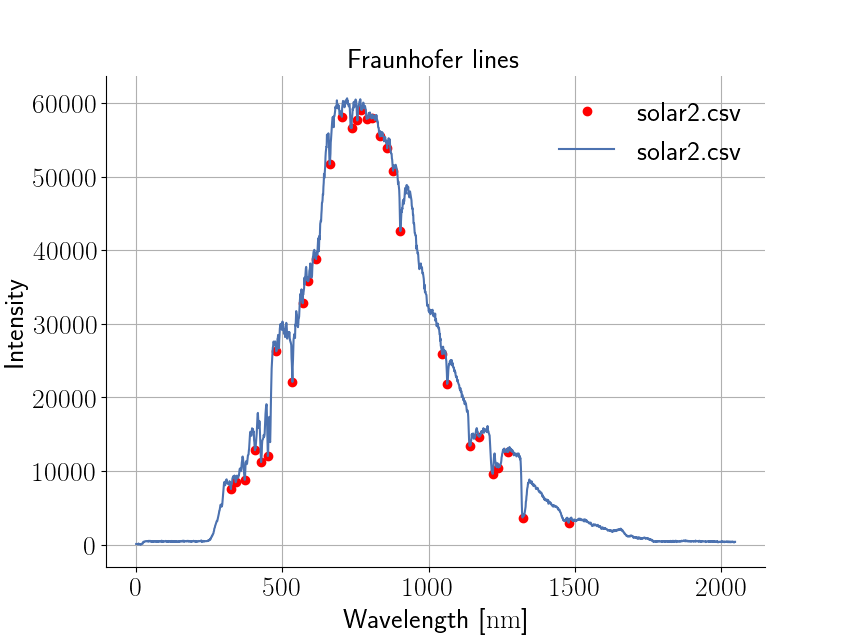
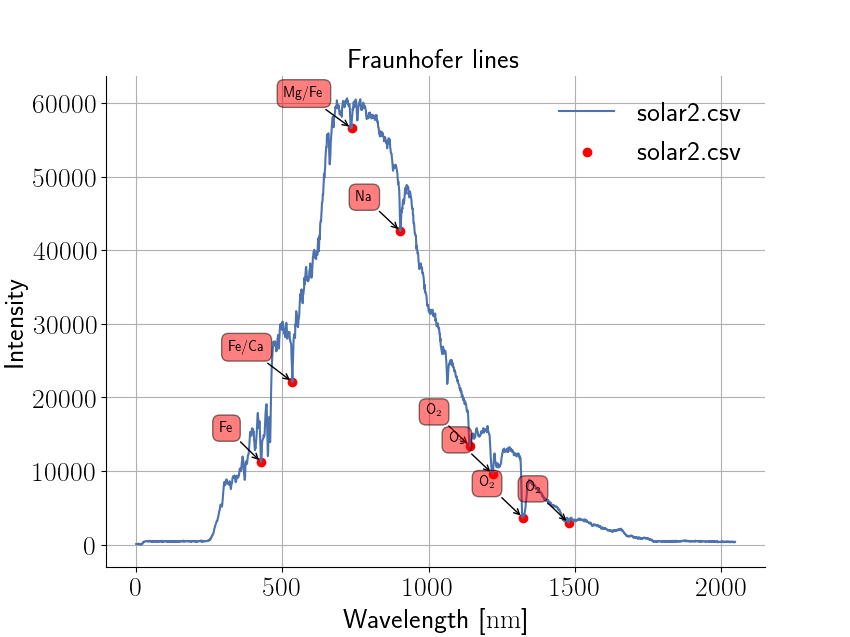
everythin

diff --git a/ex4/theory.tex b/ex4/theory.tex
@@ -1,7 +1,22 @@
 \section{Theory}
 \subsection{Light emission and absorbtion}
 
-The electron of an specific atom has a discrete spectrum of energy-levels determined by the potential of the nucleus and the other electrons. When light interacts with an atom, we are essentially adding energy to the atom, due to the energy associated with light of a certain frequency $f$ $E=hf$. Due to the quantum nature of light and electrons, only light of a frequency corresponding to the difference in energy between to of the discrete energy levels of the atom can move the from the lower energy level to the upper. This process is called absorbtion, and if we send light at an material, the material will absorb light of the wavelengths corresponding to energy transitions of the chemical element composure of the material. Likewise, when the electron transitions back to a lower energy state, the atom will emit a photon with a frequency corresponding to the transition energy, which is called emission. Like with absorbtion, each material will emit light at frequencies corresponding to it's chemical element composition. On can measure the spectrum of an material either absorbing or emitting light, and determine the energy transistions by looking at the spectral lines of the spectrum. For the absorbtion spectrum this will be minima on a wavelength vs. intensity graph. \\
+The electron of a specific atom has a discrete spectrum of energy-levels
+determined by the potential of the nucleus and the other electrons. When light
+interacts with an atom, we are essentially adding energy to the atom, due to
+the energy associated with light of a certain frequency $f$,
+\begin{equation}
+E=hf.
+\end{equation} 
+Due to the quantum nature of light and electrons, only light of a frequency
+corresponding to the difference in energy between two of the discrete energy
+levels of the atom can move the electron from the lower energy level to the upper. This process is called absorbtion, and if we send light at a material, the material will absorb light of the wavelengths corresponding to energy transitions of the chemical element composure of the material.
+
+Likewise, when the electron transitions to a lower energy state, the atom will
+emit a photon with a frequency corresponding to the transition energy, which is
+called emission. Similar to absorbtion, each material will emit light at
+frequencies corresponding to it's chemical element composition. One can measure
+the spectrum of a material either by absorbing or emitting light, and determine the energy transistions by looking at the spectral lines of the spectrum. For the absorbtion spectrum this will be minima on a wavelength vs. intensity graph. 
 
 The lines that exist due to the differences in the allowed quantum states will have a even finer splitting due to fine and hyperfine structure, which arises due to the dipole moment of the electron and the nucleus respectively. 
 
@@ -10,40 +25,24 @@ The lines that exist due to the differences in the allowed quantum states will h
 All matter emits electromagnetic radiation, when it has a temperature above absolute zero. This radiative distribution of entropy is called thermal radiation and is a spontaneous process.
 
 Similarly, all matter absorbs electromagnetic radiation to some degree. In addition, a blackbody is an object that absorbs all radiation of all wavelengths that falls upon it. Furthermore, at thermal equillibrium a blackbody emits a characteristic frequency distribution, which is temperature depended. The relationship between the spectral radiance density $B_f$ for a certain frequency $f$ and the temperature of a black body is given by plancks law:
-
+%
 \begin{align}
 B_{f}(T)= \frac{2hf^3}{c^2}\frac{1}{\exp(\frac{hf}{kT})-1}
 \label{planck}
 \end{align}
 
-Where $c$ is the speed of light, $h$ is Planck's constant, $k$ is Boltzmann's constant and $T$ is the temperature. For each frequency or wavelength $\lambda$ (related by $\lambda f = c$), there is a certain temperature where the spectral radiance density will reach its maxima or wise versa, eg. for each temperature there is a characteristic wavelength were the spectral radiance density has a maxima. The relationship between this temperature and wavelength is inversely proportional, and is given by Wien's displacement law:
-
+Where $c$ is the speed of light, $h$ is Planck's constant, $k$ is Boltzmann's
+constant and $T$ is the temperature. For each frequency or wavelength $\lambda$
+(related by $\lambda f = c$), there is a certain temperature where the spectral
+radiance density will reach its maxima or vise versa, eg. for each temperature
+there is a characteristic wavelength where the spectral radiance density has a maxima. The relationship between this temperature and wavelength is inversely proportional, and is given by Wien's displacement law:
+%
 \begin{align}
-\lambda_{max}T=b
-\label{wien}
+\lambda_{max}T=\SI{2.897 e-3}{\kelvin \meter}
+\label{eq:wien}
 \end{align}
 
-Where $b$ is Wien's displacement constant, which has a value of $\SI{2.897 e-3}{\kelvin \meter}$. 
-
-
-\subsection{Light bulbs and the solar spectrum}
-
-
-
-\begin{figure}[h!]
-    \centering
-    \includegraphics[width=0.5\textwidth]{solarspectrum}
-    \caption{The solar spectrum}
-    \label{fig:solarspectrum}
-\end{figure}
-
-Wiens displacement law
-
-\begin{equation}
-    \lambda_{\text{peak}}T = \SI{2.898e-3}{\meter\kelvin} \label{eq:wien}
-\end{equation}
-
-\begin{table}
+\begin{table}[h]
 	\begin{tabular}[h]{ccc}
 		\toprule
 		\multicolumn{3}{c}{title}\\

diff --git a/ex4/data.tex b/ex4/data.tex
@@ -5,16 +5,26 @@ For this part, we plotted the meassured intensity of the light as a function of
 wavelengths, and determined at which index of wavelength, the peak of highest
 intensity was at. This wavelength corresponds to a temperature as described in
 \cref{eq:wien} to calculate the temperature $T$.
-
-\begin{equation}
-    T_{\text{H}} = \SI{4736}{\kelvin}, \quad T_{\text{D}} =
-    \SI{4842}{\kelvin}, \quad T_{\text{E}} = \SI{4829}{\kelvin}
-\end{equation}
-For the three meassurements of the solar spectrum, we took an average, of which
-holds a temperature of
-\begin{equation}
-5663
-\end{equation}
+For the three meassurements of the solar spectrum, we took an average. All the
+temperatures are shown in \cref{tab:temp}.
+\begin{table}[h]
+\centering
+\begin{tabular}[h]{lr}
+\toprule
+Source & Temperature\\
+\midrule
+Halogen       & $\SI{4736}{\kelvin}$\\
+Diode         & $\SI{4842}{\kelvin}$\\
+Energy-saving & $\SI{4829}{\kelvin}$\\
+Solar average & $\SI{5663}{\kelvin}$\\
+\bottomrule
+\end{tabular}
+\caption{Surface temperatures of the given sources, as determined by wiens
+displacement law.}
+\label{tab:temp}
+\end{table}
+Our meassurements of the three lamps are shown compared to the three solar
+spectra on \cref{diode}, \cref{halogen} and \cref{Energy-saving}.
 
 \begin{figure}[h!]
 \centering
@@ -39,12 +49,28 @@ the sun.}
 \end{figure}
 
 \subsubsection{Comparison}
-\fxnote{HERE}
+The question is, which of our three lamps best represtent the solar spectrum.
+From the three figures \cref{diode}, \cref{halogen} and \cref{Energy-saving},
+it can be seen, that:
+
+\paragraph{diode}
+This spectrum is discrete. Some of the wavelengths are similar to that of the
+solar, but it is certainly not a blackbody.
+
+\paragraph{halogen}
+This spectrum has its peak displaced further into the yellow color, whereas the
+sun has a greenish peak. Nonetheless, it is certainly a better approximation
+than that of the diode.
+
+\paragraph{energy-saving}
+This spectrum has its peak nearest that of the solar spectrum, and thus shares
+the same color. Though it has a smaller full-width-half-maxima than that of the
+halogen lamp.
 
 \subsection{Fraunhofer lines}
 \begin{figure}[h]
 \centering
-\includegraphics[width=0.5\textwidth]{Fraunhofer}
+\includegraphics[width=0.65\textwidth]{Fraunhofer}
 \caption{The Solar spectra with the local extrema points used for
 classification of the Fraunhofer lines}
 \label{frauenhofer}
@@ -52,3 +78,26 @@ classification of the Fraunhofer lines}
 
 Comparing the found extremas with the Fraunhofer lines, we have meassured the
 following
+
+\subsection{DEL 2: ENERGY TABEL.. AK}
+
+\subsection{Absorption Spectroscopy}
+\begin{figure}[h]
+\centering
+\includegraphics[width=0.65\textwidth]{absA}
+\caption{Spectrum of cuvette A: This might just be Rhodamine 6G}
+\label{fig:absA}
+\end{figure}
+\begin{figure}[h]
+\centering
+\includegraphics[width=0.65\textwidth]{absB}
+\caption{Spectrum of cuvette B. As this seems different from all spectra of
+figure 13 (in lab guide), this might just be Kaliumhexacyanoferrat (III)}
+\label{fig:absB}
+\end{figure}
+\begin{figure}[h]
+\centering
+\includegraphics[width=0.65\textwidth]{absC}
+\caption{Spectrum of cuvette C. This might just be DCM}
+\label{fig:absC}
+\end{figure}

diff --git a/ex4/kode.py b/ex4/kode.py
@@ -149,15 +149,28 @@ for item in data_lamps:
 
 # Finding extrema
 x = np.array(df_intidx['solar2.csv'], dtype=np.float)
-order_val = 10
+order_val = 40
 list_of_peaks = sp.signal.argrelextrema(x, np.less,
         order=order_val)[0].tolist()
 list_of_peaks = [x for x in list_of_peaks if 295<x and x<1500]
 
 
+x_val = list_of_peaks
+y_val = df_intidx['solar2.csv'][list_of_peaks]
+labels = ['Fe', 'Fe/Ca', 'Mg/Fe', 'Na', 'O_2', 'O_2', 'O_2', 'O_2']
+
+# Making plot with labels at scatterplot
 plt.figure()
 plt.title('Fraunhofer lines')
-plt.plot(list_of_peaks, df_intidx['solar2.csv'][list_of_peaks], 'ro')
+plt.scatter(x_val, y_val, marker='o', color='red')
+
+# For name in labels
+for label, x, y in zip(labels, x_val, y_val):
+    plt.annotate(label,
+		xy=(x, y), xytext=(-20, 20),
+        textcoords='offset points', ha='right', va='bottom',
+        bbox=dict(boxstyle='round,pad=0.5', fc='red', alpha=0.5),
+        arrowprops=dict(arrowstyle = '->', connectionstyle='arc3,rad=0'))
 df_intidx['solar2.csv'].plot()
 plt.grid()
 plt.legend()
@@ -176,29 +189,32 @@ plt.savefig('Fraunhofer')
 # # # # # # # # # # Part C ~ Absorbance of three cuvette# # # # # # # # # # # #
 #
 for item in data_absorbance:
-    print(item)
     cuvette = os.path.basename(item)
+    print(item)
+    print(cuvette)
     plt.figure()
     df_lamidx[cuvette].plot()
     plt.grid()
+    plt.title('Spectrum of cuvette ' + str(cuvette[0]))
     plt.legend()
     plt.xlabel(r'Wavelength [\si{\nano\meter}]')
     plt.ylabel(r'Intensity')
     plt.xlim(180, 650)
-
-data_C = []
-for item in data_absorbance:
-    data_C.append(os.path.basename(item))
-print(data_C)
-
-for item in data_C:
-    plt.figure()
-    df_lamidx[item].plot()
-    plt.grid()
-    plt.legend()
-    plt.xlabel(r'Wavelength [\si{\nano\meter}]')
-    plt.ylabel(r'Intensity')
-    plt.xlim(180, 650)
+    plt.savefig('abs'+cuvette[0])
 
 plt.show()
+#data_C = []
+#for item in data_absorbance:
+#    data_C.append(os.path.basename(item))
+#print(data_C)
+
+#for item in data_C:
+#    plt.figure()
+#    df_lamidx[item].plot()
+#    plt.grid()
+#    plt.legend()
+#    plt.xlabel(r'Wavelength [\si{\nano\meter}]')
+#    plt.ylabel(r'Intensity')
+#    plt.xlim(180, 650)
+
 

diff --git a/ex4/introduction.tex b/ex4/introduction.tex
@@ -12,10 +12,16 @@ As the recorded solar spectrum also contains absorption lines\footnote{Theese
 absorbed in their path from the source to the detector.} (often reffered to as
 Fraunhofer lines), as a result of the gas in the photosphere, we will determine
 the wavelengths and identify the corresponding molecules, which consequently
-must be in the outer layer of the sun.  In addition, theemission spectra from
+must be in the outer layer of the sun (see \cref{fig:frauenhofer} In addition, theemission spectra from
 spectral lamps and a laser will be studied. 
 Look at the line spectra from such lamps and compare with a data base to assign
 the initial and final electronic stats for as many lines as possible. 
 
+\begin{figure}[h!]
+    \centering
+    \includegraphics[width=0.5\textwidth]{solarspectrum}
+    \caption{The solar spectrum}
+    \label{fig:frauenhofer}
+\end{figure}
 
 

diff --git a/ex4/repport.tex b/ex4/repport.tex
@@ -43,5 +43,3 @@
 %\printbibliography[heading=subbibliography]{}
 %\nocite{*}
 \end{document}
-
-
